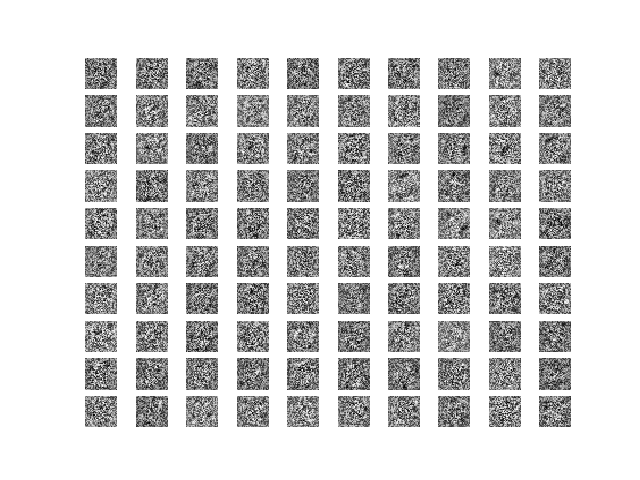
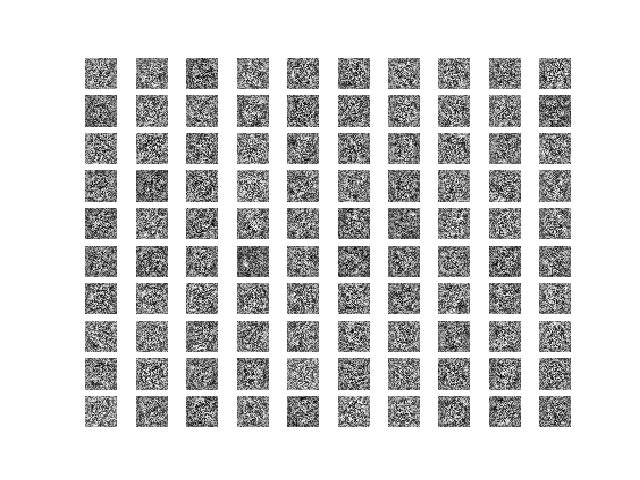
minor bug fix

diff --git a/project2b.py b/project2b.py
@@ -8,8 +8,8 @@ import theano.tensor as T
 from theano.sandbox.rng_mrg import MRG_RandomStreams as RandomStreams
 
 corruption_level=0.1
-training_epochs = 25
-learning_rate = 0.1
+training_epochs = 25 #25
+learning_rate = 0.1 #0.1
 batch_size = 128
 with_attributes = False # use momentum, and sparsity?
 
@@ -69,8 +69,8 @@ rng = np.random.RandomState(123)
 theano_rng = RandomStreams(rng.randint(2 ** 30))
 
 # create weights and biases
-#config = [28*28, 900, 625, 400, 10]
-config = [28*28,900,10]
+config = [28*28, 900, 625, 400, 10]
+weight_image_size = [28, 30, 25]
 weights,biases,bprimes = create_network_parameters(config)
 
 encoder_layer_count = len(config)-2
@@ -137,8 +137,9 @@ for i in range(encoder_layer_count):
     w1 = weights[i+1].get_value()
     pylab.figure()
     pylab.gray()
+    sz = weight_image_size[i]
     for j in range(100):
-        pylab.subplot(10, 10, j+1); pylab.axis('off'); pylab.imshow(w1[:,j].reshape(28,28))
+        pylab.subplot(10, 10, j+1); pylab.axis('off'); pylab.imshow(w1[:,j].reshape(sz,sz))
     pylab.savefig(filename_prefix +"enc_weights_%d.png" % (i+1))
 
 """
